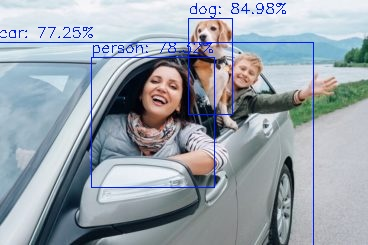
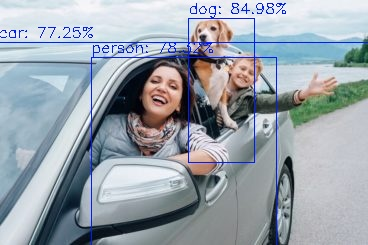
reduced code

Changed region(s): [[0.2391, 0.0571, 0.7772, 1.0], [0.837, 0.1714, 1.0, 1.0]]

diff --git a/modules.py b/modules.py
@@ -1,5 +1,5 @@
-import numpy as np
 import cv2
+import numpy as np
 
 class Image:
 
@@ -60,6 +60,9 @@ class YoloModelPrediction(Image):
     def obj_det_layers(self):
         return self.yolo_model.forward(self.yolo_output_layer)
 
+    def inputImgDim(self):
+        return self.DIMS
+
 class Box:
 
     def __init__(self,boundaryBox,imageDims):
@@ -70,12 +73,18 @@ class Box:
 
     def getBoxDims(self):
         # co ordinate start_x,start_y,w,h
-        return [
+        return (
             int(self.boundaryBox[0] - (self.boundaryBox[2] / 2)),
             int(self.boundaryBox[1] - (self.boundaryBox[3] / 2)),
             self.boundaryBox[2],
             self.boundaryBox[3]
-        ]
+        )
+    
+    def generateEnds(self):
+        return (
+            int(self.boundaryBox[0] + self.boundaryBox[2]),
+            int(self.boundaryBox[1] + self.boundaryBox[3])
+        )
     
 def driverFunction(
     labelConfPath,configPath,weightPath,imagePath,MIN_CONF,nms_conf, nms_thresh
@@ -109,42 +118,37 @@ def driverFunction(
             confidence = scores[c_id]
 
             if confidence > MIN_CONF:
-                box = Box(obj_feature[:4],model.DIMS)
-                boxes_list.append(box.getBoxDims())
-                del(box)
+                # sync-data-struct
+                boxes_list.append(Box(obj_feature[:4],model.inputImgDim()))
                 confidences_list.append(float(confidence))
                 class_ids_list.append(c_id)
     
-    max_value_ids = cv2.dnn.NMSBoxes(boxes_list, confidences_list, nms_conf, nms_thresh)
+    max_value_ids = cv2.dnn.NMSBoxes(
+        [list(item.getBoxDims()) for item in boxes_list],
+        confidences_list, nms_conf, nms_thresh
+    )
+    
     image = cv2.imread(imagePath)
 
+    # the cv2 fn will perform nms and get index of box with greatest confidence per class
     for max_valueid in max_value_ids:
 
-        max_class_id = max_valueid[0]
+        greatest_confidence_id = max_valueid[0]
+        start_x_pt ,start_y_pt ,box_width ,box_height = boxes_list[greatest_confidence_id].getBoxDims()
+        end_x_pt ,end_y_pt = boxes_list[greatest_confidence_id].generateEnds()
 
-        box = boxes_list[max_class_id]
-        start_x_pt = box[0]
-        start_y_pt = box[1]
-        box_width = box[2]
-        box_height = box[3]
-
-        predicted_class_id = class_ids_list[max_class_id]
-        predicted_class_label = labels[predicted_class_id]
-        prediction_confidence = confidences_list[max_class_id]
+        predicted_class_id = class_ids_list[greatest_confidence_id]
         # box_color = conf.getColor(predicted_class_label)
+        box_color = [250,30,0]
 
-        end_x_pt = int(start_x_pt + box_width)
-        end_y_pt = int(start_y_pt + box_height)
+        predicted_class_label = "{}: {:.2f}%".format(labels[predicted_class_id], confidences_list[greatest_confidence_id] * 100)
+        # print("predicted object {}".format(predicted_class_label))
 
-
-        predicted_class_label = "{}: {:.2f}%".format(predicted_class_label, prediction_confidence * 100)
-        print("predicted object {}".format(predicted_class_label))
-
-        cv2.rectangle(image, (start_x_pt, start_y_pt), (end_x_pt, end_y_pt), [250,30,0],1)
-        cv2.putText(image, predicted_class_label, (start_x_pt, start_y_pt-5), cv2.FONT_HERSHEY_SIMPLEX, 0.5, [250,30,0], 1)
+        cv2.rectangle(image, (start_x_pt, start_y_pt), (end_x_pt, end_y_pt), box_color,1)
+        cv2.putText(image, predicted_class_label, (start_x_pt, start_y_pt-5), cv2.FONT_HERSHEY_SIMPLEX, 0.5, box_color, 1)
     
     cv2.imwrite("Detection.jpg", image)
 
-driverFunction(
-    "","yolov4.cfg","yolov4.weights","test.jpg",0.4,0.5,0.4
-)
+# driverFunction(
+#     "","yolov4.cfg","yolov4.weights","test.jpg",0.4,0.5,0.4
+# )
